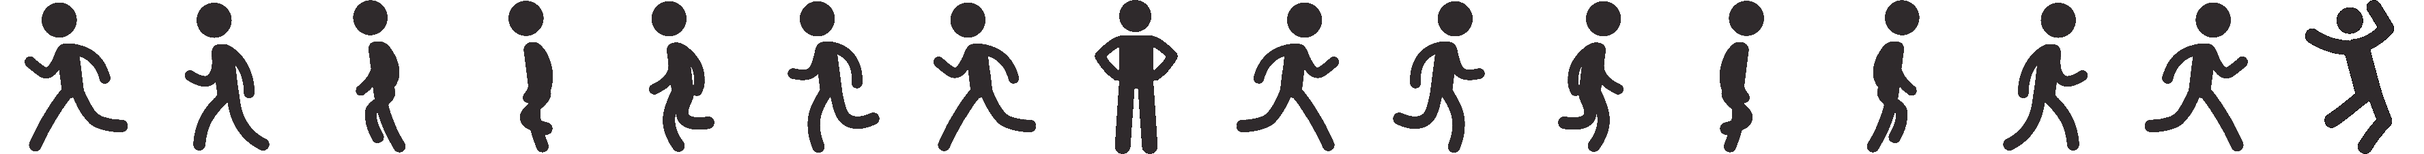
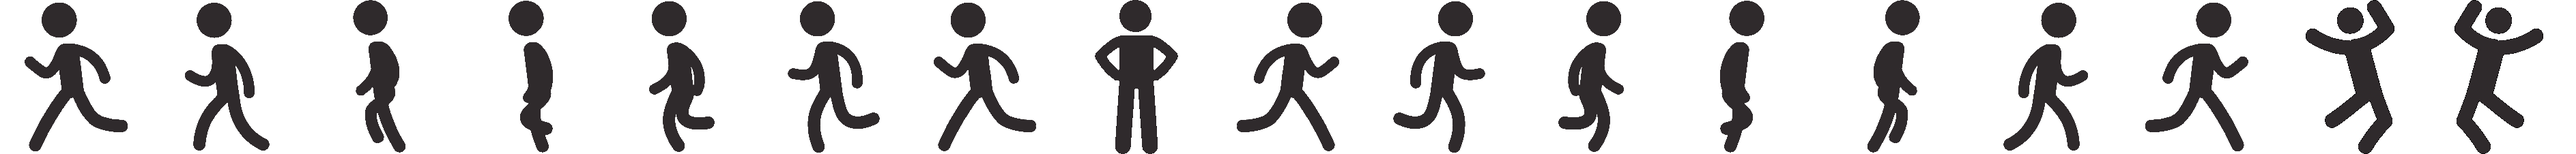
Make falling directional

diff --git a/src/main/resources/static/js/main.js b/src/main/resources/static/js/main.js
@@ -55,8 +55,14 @@ function create ()
     });
 
     this.anims.create({
-        key: 'jump',
+        key: 'jump_right',
         frames: [ { key: 'stickman', frame: 15 } ],
+        frameRate: 20
+    });
+
+    this.anims.create({
+        key: 'jump_left',
+        frames: [ { key: 'stickman', frame: 16 } ],
         frameRate: 20
     });
 
@@ -77,13 +83,14 @@ function update ()
     if (cursors.left.isDown)
     {
         player.setVelocityX(-160);
-
-        player.anims.play('left', true);
+        if (!player.body.touching.down) player.anims.play('jump_left');
+        else player.anims.play('left', true);
     }
     else if (cursors.right.isDown)
     {
         player.setVelocityX(160);
-        player.anims.play('right', true);
+        if (!player.body.touching.down) player.anims.play('jump_right');
+        else player.anims.play('right', true);
     }
     else
     {
@@ -92,6 +99,4 @@ function update ()
     }
 
     if (cursors.up.isDown && player.body.touching.down) player.setVelocityY(-560);
-
-    if (!player.body.touching.down) player.anims.play('jump');
 }
